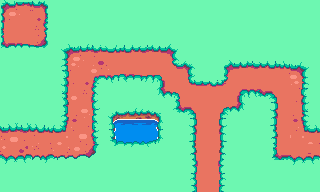
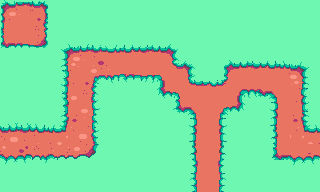
Adding a pond, and casting the line animation

Changed region(s): [[0.3438, 0.5625, 0.5312, 0.7812]]

diff --git a/index.html b/index.html
@@ -34,6 +34,7 @@
 
     var player;
     var cursors;
+    var pond;
 
     var game = new Phaser.Game(config);
 
@@ -41,6 +42,8 @@
     {
       // `this` refers not to the game object - but the scene!
       this.load.image('ground', 'assets/atlas.png');
+      this.load.image('pond', 'assets/pond.png');
+
       this.load.image('fishA', 'assets/FishA.png');
       this.load.image('fishB', 'assets/FishB.png');
       this.load.image('fishC', 'assets/FishC.png');
@@ -60,8 +63,14 @@
 
       this.add.image(400, 300, 'ground').setScale(2);
 
+      // create collider for the pond
+      pond = this.physics.add.staticGroup();
+      pond.create(390, 420, 'pond').setScale(2).refreshBody();
+
       player = this.physics.add.sprite(100, 450, 'player');
       player.setCollideWorldBounds(true);
+
+      this.physics.add.collider(player, pond);
 
       this.anims.create({
         key: 'left',
@@ -79,7 +88,7 @@
 
       this.anims.create({
         key: 'cast',
-        frame: [ {key: 'player', frame: 4}],
+        frames: [ {key: 'player', frame: 3}],
         frameRate: 20
       });
 
@@ -99,6 +108,7 @@
 
       // input events
       cursors = this.input.keyboard.createCursorKeys();
+
     }
 
     function update ()
@@ -117,6 +127,9 @@
       } else if (cursors.down.isDown) {
         player.setVelocity(0, 160);
         player.anims.play('down', true);
+      } else if (cursors.space.isDown) {
+        player.setVelocity(0, 0);
+        player.anims.play('cast', true);
       } else {
         player.setVelocity(0, 0);
         player.anims.pause();
